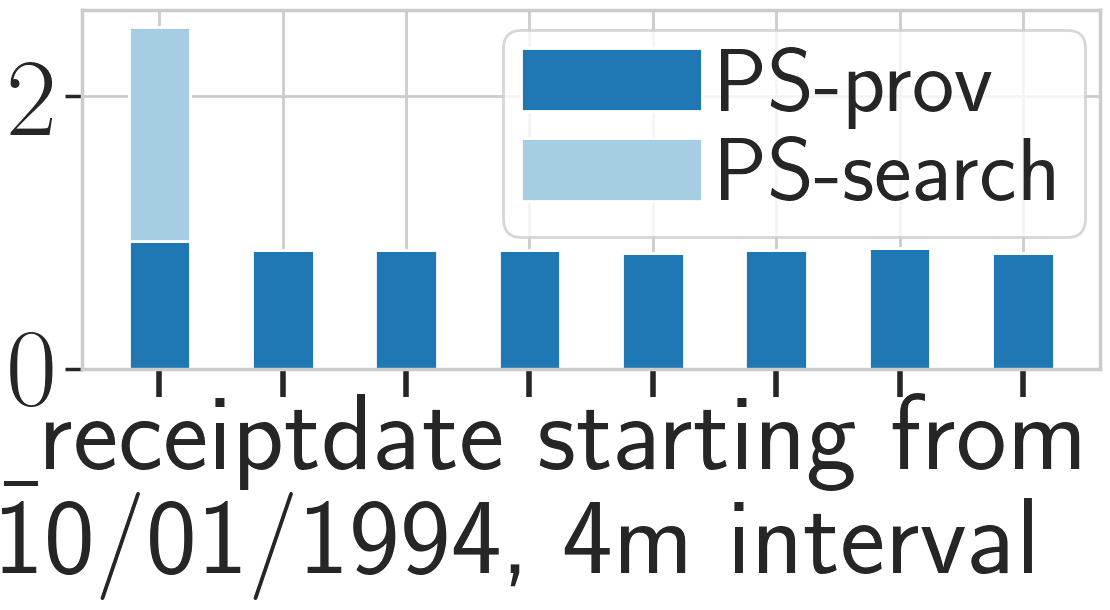
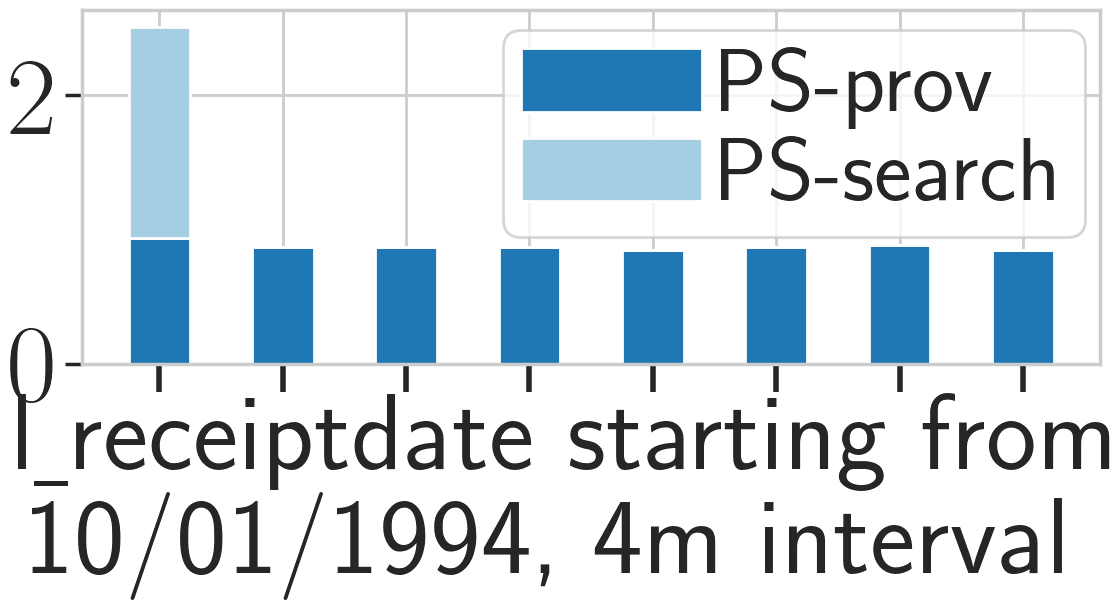
TPCH 100M

diff --git a/Experiment/TPCH/100M/query_selectivity2/q12_contract2/fig.py b/Experiment/TPCH/100M/query_selectivity2/q12_contract2/fig.py
@@ -83,7 +83,7 @@ def run(query, size, constraint):
     plt.yticks(fontsize=80, weight='bold', fontname="Times New Roman")
 
     plt.xlabel(r'l\underline{ }receiptdate starting from\\$~~$10/01/1994, 4m interval',
-               fontsize=78, weight='bold', labelpad=-5).set_position((0.45, -0.1))
+               fontsize=78, weight='bold', labelpad=-2).set_position((0.48, -0.05))
     plt.tight_layout()
     plt.legend(loc='upper right', bbox_to_anchor=(1.03, 1.07), fontsize=65,
                ncol=1, labelspacing=0.1, handletextpad=0.2, markerscale=0.3,
